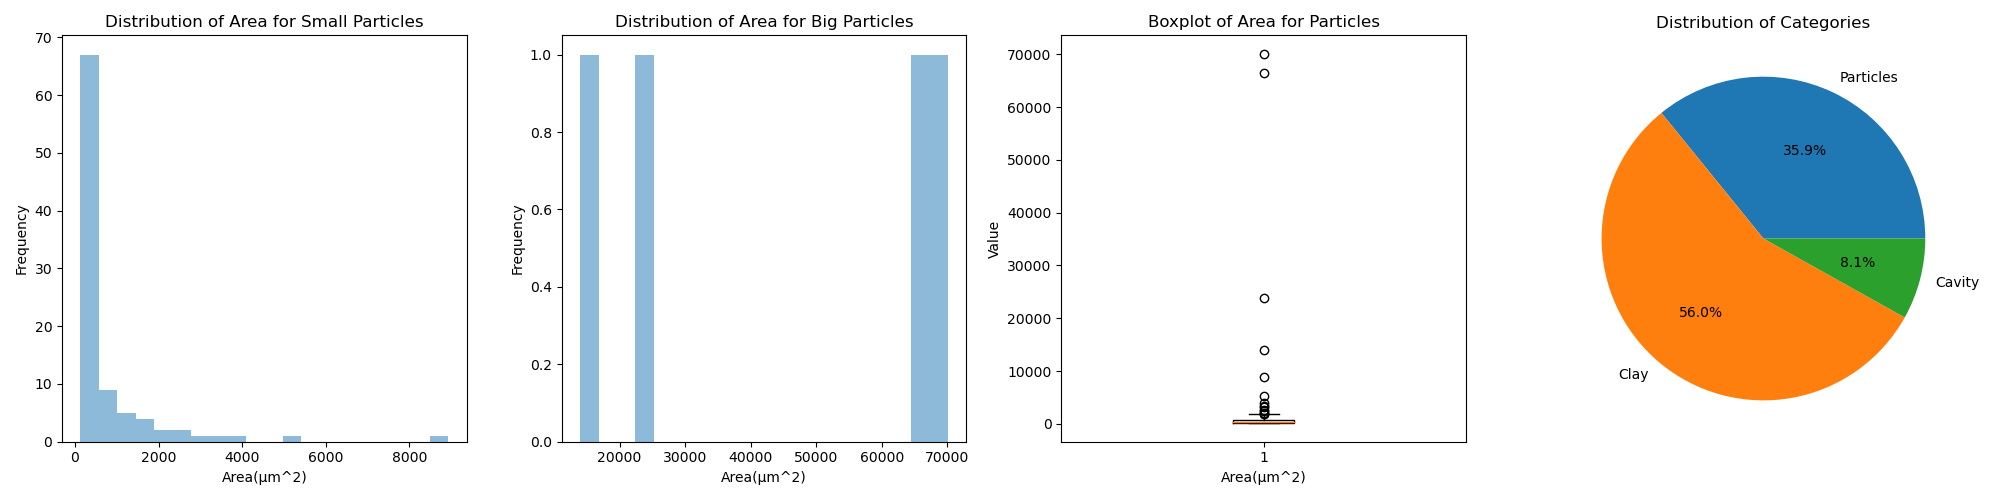
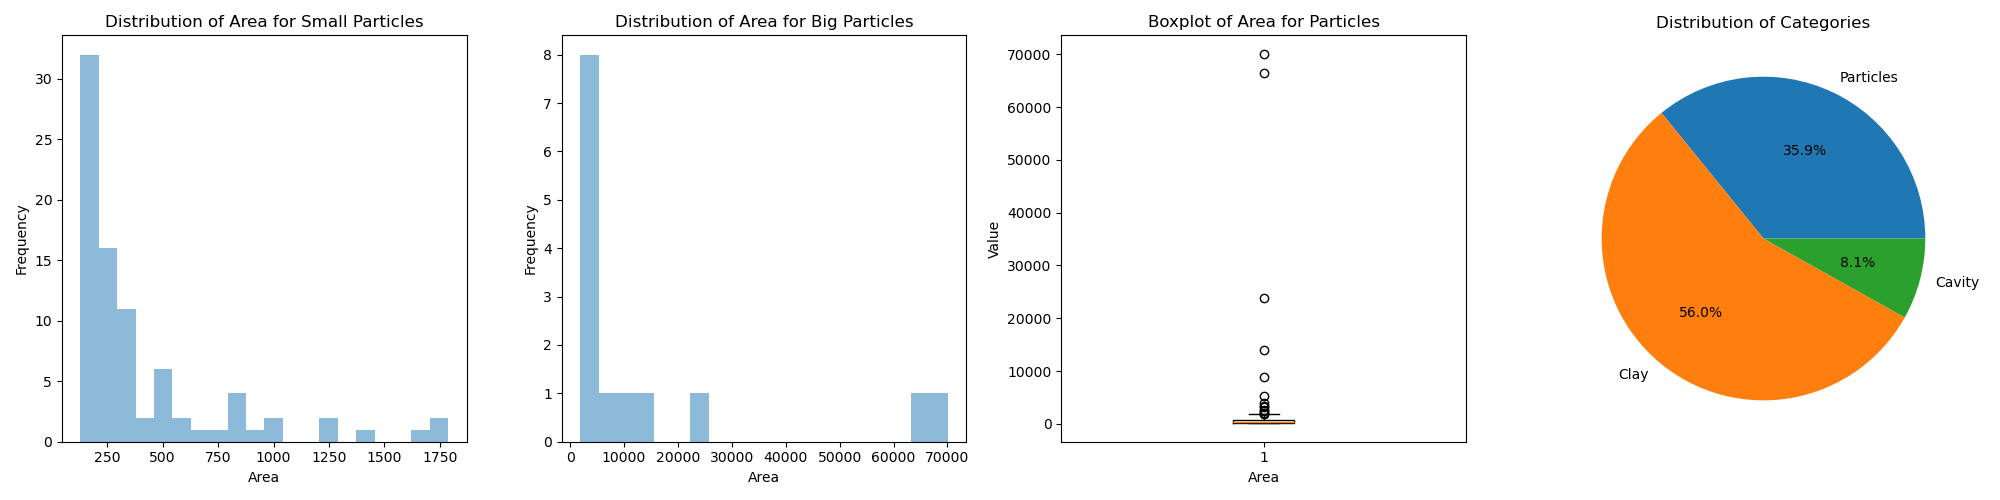
Add files via upload

diff --git a/test.py b/test.py
@@ -82,22 +82,30 @@ elem_area_lists = new_list
 for i in range(len(elem_area_lists)):
     area_list = elem_area_lists[i]
     figure, axes = plt.subplots(1, 4, figsize=(20, 5))
-    data_range_500 = [value for value in area_list if 0 <= value <= 10000]
+    res = np.percentile(area_list, (25, 50, 75), interpolation='midpoint')
+    q3 = res[0]
+    q1 = res[2]
+    up = 2.5 * q1 - 1.5 * q3
+    # print(q3)
+    # print(q1)
+    # print(up)
+
+    data_range_500 = [value for value in area_list if 0 <= value <= up]
     axes[0].hist(data_range_500, bins=20, alpha=0.5)
     axes[0].set_title('Distribution of Area for Small Particles')
-    axes[0].set_xlabel('Area(μm^2)')
+    axes[0].set_xlabel('Area')
     axes[0].set_ylabel('Frequency')
 
-    data_range_10000 = [value for value in area_list if value > 10000]
+    data_range_10000 = [value for value in area_list if value > up]
     axes[1].hist(data_range_10000, bins=20, alpha=0.5)
     axes[1].set_title('Distribution of Area for Big Particles')
-    axes[1].set_xlabel('Area(μm^2)')
+    axes[1].set_xlabel('Area')
     axes[1].set_ylabel('Frequency')
 
     # Plot boxplot of area
     axes[2].boxplot(area_list)
     axes[2].set_title('Boxplot of Area for Particles')
-    axes[2].set_xlabel('Area(μm^2)')
+    axes[2].set_xlabel('Area')
     axes[2].set_ylabel('Value')
 
 
